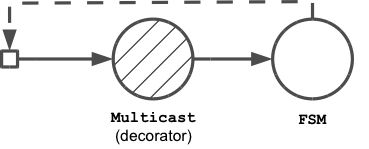
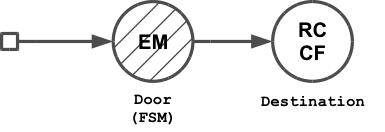
User guide section 'State machines' rewritten

diff --git a/README.md b/README.md
@@ -680,78 +680,86 @@ The example code is contained in [OrderExample.scala](https://github.com/eligoso
 
 ### State machines
 
-This example implements an event-sourced state machine using Akka's [FSM](http://doc.akka.io/docs/akka/2.0.3/scala/fsm.html). An actor that extends the `FSM` trait, however, cannot be modified directly with the stackable `Eventsourced` trait because the `FSM` trait implements `receive` as `final` method. We will therefore use an event-sourced *decorator* that delegates to the FSM actor. We implement the decorator with the predefined [`Multicast`](http://eligosource.github.com/eventsourced/api/snapshot/#org.eligosource.eventsourced.core.Multicast) processor and make the 'FSM' actor its single target (see also section [Multicast processor](#multicast-processor)).
+![State machines](https://raw.github.com/eligosource/eventsourced/wip-akka-2.1/doc/images/statemachines-1.png)
 
-![State machines](https://raw.github.com/eligosource/eventsourced/master/doc/images/statemachines-1.png)
-
-For communicating with the `FSM`, the example application sends event messages to the `Multicast` processor which extract events from received event messages and forwards them (together with the [sender reference](#sender-references)) to the `FSM` actor. The `FSM` actor produces events by replying to the sender. The `FSM` actor in this example is a `Door` which can be in one of two states: `Open` and `Closed`. 
+With a recent [change](https://www.assembla.com/spaces/akka/tickets/2680) in Akka 2.1, event-sourcing Akka [FSM](http://doc.akka.io/docs/akka/2.0.3/scala/fsm.html)s is now pretty easy. The following state machine example is a `Door` which can be in one of two states: `Open` and `Closed`. 
 
     sealed trait DoorState
   
     case object Open extends DoorState
     case object Closed extends DoorState
   
-    case class DoorMoved(times: Int)
-    case class DoorNotMoved(reason: String)
+    case class DoorMoved(state: DoorState, times: Int)
+    case class DoorNotMoved(state: DoorState, cmd: String)
+    case class NotSupported(cmd: Any)
   
-    class Door extends Actor with FSM[DoorState, Int] {
+    class Door extends Actor with FSM[DoorState, Int] { this: Emitter =>
       startWith(Closed, 0)
   
       when(Closed) {
         case Event("open", counter) => {
-          goto(Open) using(counter + 1) replying(DoorMoved(counter + 1))
+          emit(DoorMoved(Open, counter + 1))
+          goto(Open) using(counter + 1)
         }
       }
   
       when(Open) {
         case Event("close", counter) => {
-          goto(Closed) using(counter + 1) replying(DoorMoved(counter + 1))
+          emit(DoorMoved(Closed, counter + 1))
+          goto(Closed) using(counter + 1)
         }
       }
   
       whenUnhandled {
+        case Event(cmd @ ("open" | "close"), counter) => {
+          emit(DoorNotMoved(stateName, "cannot %s door" format cmd))
+          stay
+        }
         case Event(cmd, counter) => {
-          stay replying(DoorNotMoved("cannot %s door in state %s" format (cmd, stateName)))
+          emit(NotSupported(cmd))
+          stay
         }
       }
+
+      def emit(event: Any) = emitter("destination") forwardEvent event
     }
 
-On state changes, a door replies with `DoorMoved` events containing the number of moves so far. On invalid attempts to move a door e.g. trying to open an opened door, it replies with `DoorNotMoved` events. The reply destination is another actor that simply prints received events to `stdout`. 
+On state changes, a door emits `DoorMoved` events to the named `"destination"` channel. `DoorMoved` events contain the door's current state and the number of moves so far. On invalid attempts to move a door e.g. trying to open an opened door, a `DoorNotMoved` event is emitted. The channel destination is an actor that simply prints received events to `stdout`. 
 
     class Destination extends Actor {
       def receive = { case event => println("received event %s" format event) }
     }
 
-The `destination` actor is passed as implicit sender reference when sending event messages to a `door`.
+After configuring the application
 
-    // … 
-    import org.eligosource.eventsourced.core._
-
+    val system: ActorSystem = … 
     val extension: EventsourcingExtension = …
-    val transformer: Message => Any = msg => msg.event
-    val door = extension.processorOf(Props(decorator(1, system.actorOf(Props(new Door)), transformer)))
 
+    val destination = system.actorOf(Props(new Destination with Receiver with Confirm))
+
+    extension.channelOf(DefaultChannelProps(1, destination).withName("destination"))
+    extension.processorOf(Props(new Door with Emitter with Eventsourced { val id = 1 } ))
     extension.recover()
 
-    implicit val destination = system.actorOf(Props(new Destination))
+    val door = extension.processors(1)
 
-The `Multicast` processor is created with the `decorator` factory method which is defined in package [`core`](http://eligosource.github.com/eventsourced/api/snapshot/#org.eligosource.eventsourced.core.package). This method takes a processor id, the decoration target and a `transformer` function as arguments. The `door` is initially in `Closed` state. Sending the following two event messages to `door`
+we can start sending event messages to the `door`:
 
     door ! Message("open")
     door ! Message("close")
     
-will write 
+This will write 
 
-    received event DoorMoved(1)
-    received event DoorMoved(2)
+    received event DoorMoved(Open,1)
+    received event DoorMoved(Closed,2)
 
 to `stdout`. When trying to attempt an invalid state change with
 
     door ! Message("close")
 
-the `destination` will receive a `DoorNotMoved` event.
+the `destination` will receive a `DoorNotMoved` event:
 
-    received event DoorNotMoved(cannot close door in state Closed)
+    received event DoorNotMoved(Closed,cannot close door)
 
 Restarting the example application will recover the door's state so that sending of
 
@@ -760,10 +768,10 @@ Restarting the example application will recover the door's state so that sending
 
 will produce
 
-    received event DoorMoved(3)
-    received event DoorMoved(4)
+    received event DoorMoved(Open,3)
+    received event DoorMoved(Closed,4)
 
-The code from this section is contained in slightly modified form in [FsmExample.scala](https://github.com/eligosource/eventsourced/blob/master/src/test/scala/org/eligosource/eventsourced/example/FsmExample.scala).
+The code from this section is contained in slightly modified form in [FsmExample.scala](https://github.com/eligosource/eventsourced/blob/wip-akka-2.1/src/test/scala/org/eligosource/eventsourced/example/FsmExample.scala).
 
 Miscellaneous
 -------------
